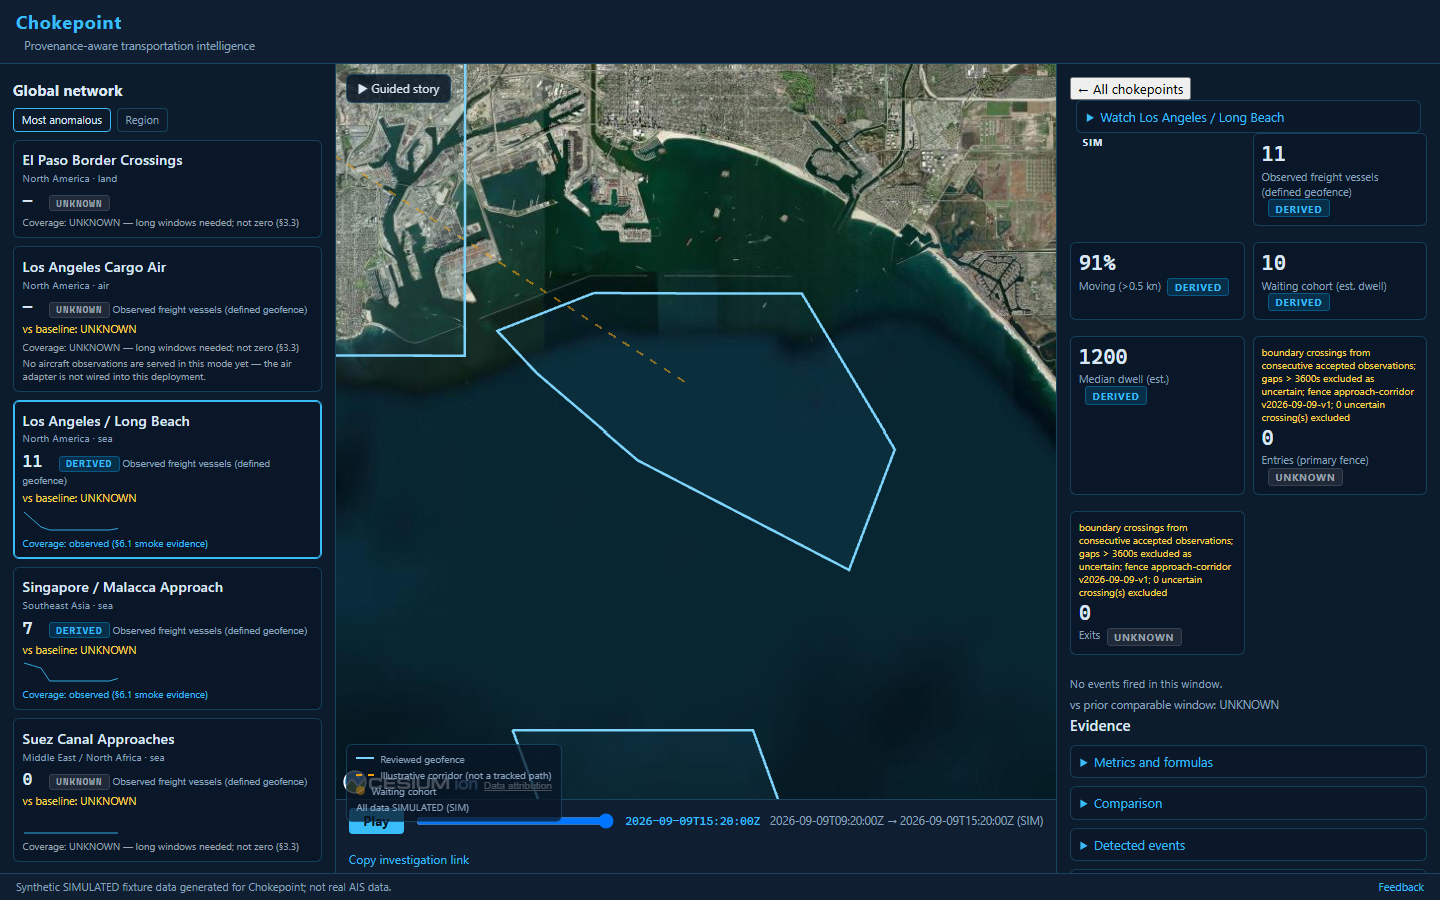
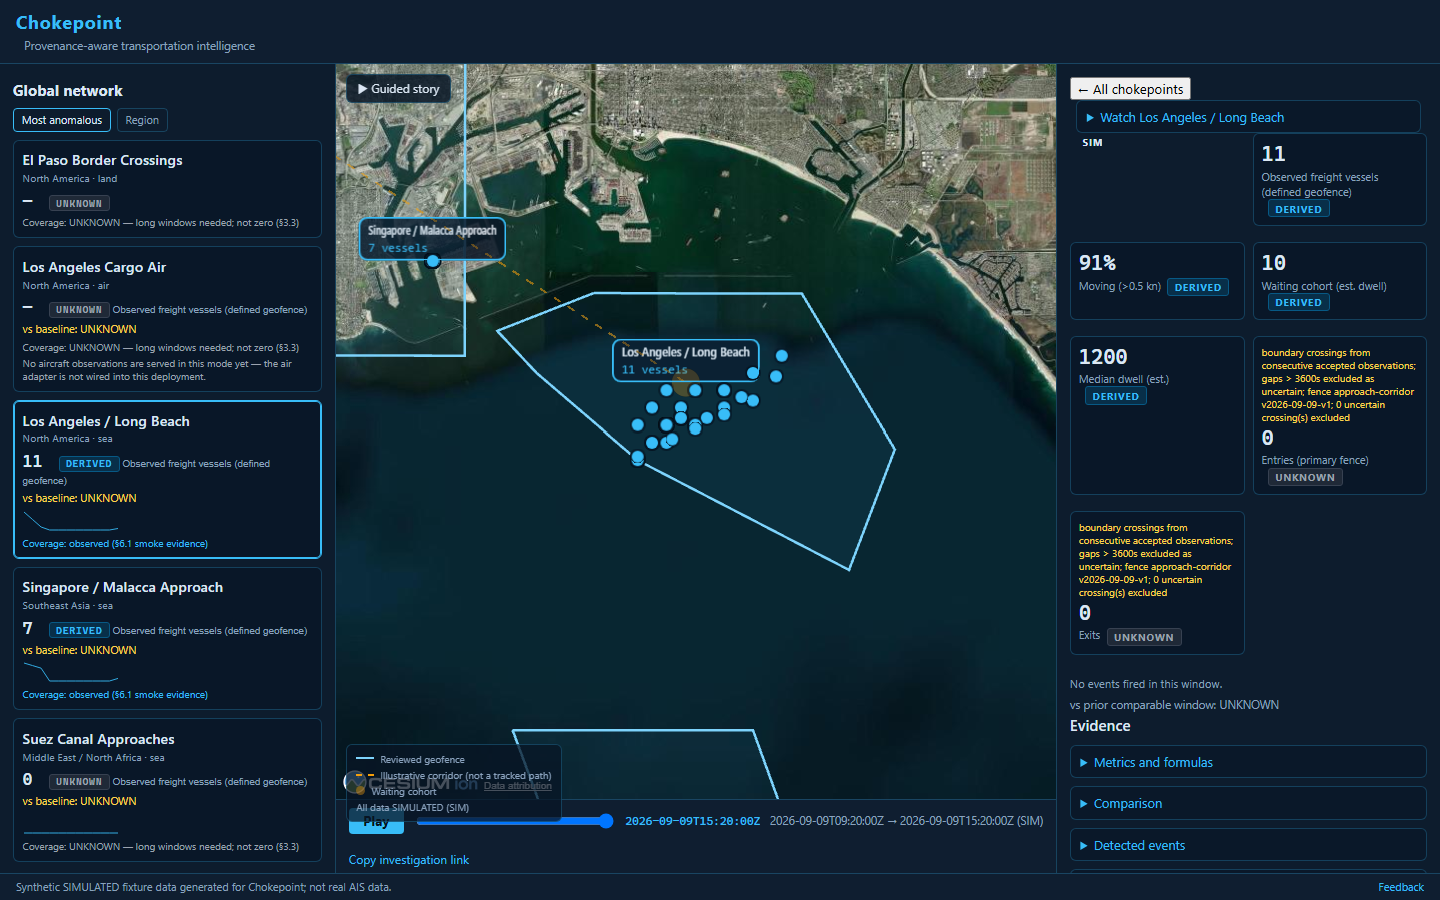
Phase 1.5 presence layer ON: nodes+pulses crash root-caused and fixed (Cesium JulianDate exposes dayNumber, not julianDateNumber - pulsePixelSize produced NaN pixelSize -> NaN collection bounding radius -> NaN near/far -> updateFrustums RangeError killed the render loop on the first animated frame);

Changed region(s): [[0.4062, 0.3733, 0.5625, 0.5289], [0.25, 0.2178, 0.375, 0.3111]]

diff --git a/src/scene/globe.ts b/src/scene/globe.ts
@@ -303,6 +303,29 @@ export function createFreightGlobe(
           (e.id.startsWith("node-") || e.id.startsWith("pulse-")),
       );
       for (const entity of toRemove) viewer.entities.remove(entity);
+      // P4 pulse for one marker (local helper so the pulses-only bisect mode
+      // can draw pulses WITHOUT node billboards).
+      const addPulse = (m: NodeMarker): void => {
+        if (m.cohort === 0) return;
+        const animated = m.cohort > 0;
+        const cohort = Math.abs(m.cohort);
+        const pixelSize = animated
+          ? new Cesium.CallbackProperty(
+              (time) => pulsePixelSize(cohort, time ?? viewer.clock.currentTime),
+              false,
+            )
+          : 22;
+        viewer.entities.add({
+          id: `pulse-${m.id}`,
+          position: Cesium.Cartesian3.fromDegrees(m.anchor[1], m.anchor[0], 0),
+          point: {
+            pixelSize,
+            color: Cesium.Color.fromCssColorString("#f59e0b").withAlpha(0.28),
+            outlineWidth: 0,
+            heightReference: Cesium.HeightReference.NONE,
+          },
+        });
+      };
       for (const m of markers) {
         viewer.entities.add({
           id: `node-${m.id}`,
@@ -317,37 +340,7 @@ export function createFreightGlobe(
             sizeInMeters: false,
           },
         });
-        // P4: waiting-cohort pulse — size oscillates with the viewer clock
-        // (render-driven under requestRenderMode; frozen when idle). The
-        // ring marks WHERE vessels wait; it claims nothing about motion.
-        // Render-property constraints (bisected via QA probes):
-        //  - outlineWidth MUST be 0: with an outline, PointVisualizer renders
-        //    the point as a billboard whose texture id embeds the pixel size —
-        //    an animated pixelSize then queues a NEW atlas texture every frame
-        //    (width-0 churn -> repeated render-loop errors).
-        //  - disableDepthTestDistance MUST NOT be Infinity on the pulse: it
-        //    collapses the near plane to 0, far/near -> Infinity, and the
-        //    multi-frustum split overflows (RangeError, rendering stops).
-        // The pulse is a large translucent surface ring; depth testing is fine.
-        if (m.cohort !== 0) {
-          const animated = m.cohort > 0;
-          const cohort = Math.abs(m.cohort);
-          viewer.entities.add({
-            id: `pulse-${m.id}`,
-            position: Cesium.Cartesian3.fromDegrees(m.anchor[1], m.anchor[0], 0),
-            point: {
-              pixelSize: animated
-                ? new Cesium.CallbackProperty(
-                    (time) => pulsePixelSize(cohort, time ?? viewer.clock.currentTime),
-                    false,
-                  )
-                : 22,
-              color: Cesium.Color.fromCssColorString("#f59e0b").withAlpha(0.28),
-              outlineWidth: 0,
-              heightReference: Cesium.HeightReference.NONE,
-            },
-          });
-        }
+        addPulse(m);
       }
       viewer.scene.requestRender();
     },
@@ -377,11 +370,15 @@ export function createFreightGlobe(
           // corridor "flows" during replay/scrub renders and freezes when
           // idle (§12.5: no wall clock in the render path).
           dashPattern: new Cesium.CallbackProperty((time) => {
+            // Cesium JulianDate exposes dayNumber + secondsOfDay. The
+            // previously-assumed `julianDateNumber` is undefined on real
+            // JulianDates -> NaN seconds -> zeroed dash pattern; same latent
+            // bug as the P4 pulse crash (see STATUS.md).
             const t = (time ?? viewer.clock.currentTime) as unknown as {
-              julianDateNumber: number;
+              dayNumber: number;
               secondsOfDay: number;
             };
-            const seconds = t.julianDateNumber * 86400 + t.secondsOfDay;
+            const seconds = t.dayNumber * 86400 + t.secondsOfDay;
             if (routeFlowActive) {
               if (lastFlowSeconds !== null) {
                 flowOffset = (flowOffset + Math.max(0, seconds - lastFlowSeconds)) % 16;

diff --git a/src/main.ts b/src/main.ts
@@ -94,6 +94,18 @@ function samplePixel(gl: WebGLRenderingContext | null, canvas: HTMLCanvasElement
 // Test/diagnostic hook (QA reads entity counts; contains no secrets).
 (window as unknown as { __chokepointDebug?: unknown }).__chokepointDebug = {
   getEntityCount: () => (globe ? globe.viewer.entities.values.length : -1),
+  /** QA diagnostic: camera pose + frustum near/far at read time. */
+  getCameraState: () => {
+    if (!globe) return null;
+    const cam = globe.viewer.camera;
+    const f = cam.frustum as unknown as { near?: number; far?: number };
+    return {
+      position: { x: cam.position.x, y: cam.position.y, z: cam.position.z },
+      direction: { x: cam.direction.x, y: cam.direction.y, z: cam.direction.z },
+      near: f.near ?? null,
+      far: f.far ?? null,
+    };
+  },
   getEntityKinds: () =>
     globe
       ? globe.viewer.entities.values.map((e) => ({
@@ -635,10 +647,10 @@ function refreshView(snapshot: AppStateSnapshot): void {
   const windowToUse = snapshot.replay.cursor ? replayWindow(snapshot.replay.cursor) : snapshot.timeWindow;
   const snaps = manager.getAllSnapshots(windowToUse);
   globe.showObservations(networkObservations(snaps).observations, snapshot.selectedEntityId);
-  // Phase 1.5 P2/P4 node markers are OPT-IN (?nodes) pending a Cesium render
-  // crash triggered by nodes+pulses together (STATUS.md, open blocker). The
-  // network view boots clean without them.
-  if (new URLSearchParams(window.location.search).has("nodes")) updateNodeMarkers(snaps);
+  // Phase 1.5 P2/P4 node markers and cohort pulses ship ON (the earlier Cesium render crash was traced to
+  // `julianDateNumber` vs `dayNumber` in pulsePixelSize — see STATUS.md);
+  // ?nonodes / ?nopulse still hide them for QA and escape hatches.
+  updateNodeMarkers(snaps);
 
   renderCompareTable(required("#compare"), compareRows(snaps, (f) => manager.coverageHint(f)), (chokepointId) => {
     state.update({ focusChokepointId: chokepointId });

diff --git a/scripts/perf-replay.ts b/scripts/perf-replay.ts
@@ -96,8 +96,10 @@ try {
   page.on("pageerror", (err) => pageErrors.push(String(err)));
 
   await page.goto(`${BASE}/`, { waitUntil: "domcontentloaded" });
-  await page.waitForSelector("[data-testid^=launcher-]", { timeout: 30_000 });
-  await page.click("[data-testid=launcher-long-beach-approach]");
+  // Phase 1 network boot: the launcher was absorbed into the compare table;
+  // focus long-beach-approach via its compare row (same as qa-browser).
+  await page.waitForSelector("[data-testid^=compare-]", { timeout: 30_000 });
+  await page.click("[data-testid=compare-long-beach-approach]");
   await page.waitForSelector("[data-testid=card-vessel-count]", { timeout: 30_000 });
   await sleep(4000); // globe init + first renders settle
 
@@ -187,9 +189,9 @@ try {
   // --- 4) Memory growth over enable/disable cycles ---
   const heap0 = await page.evaluate(() => (window as unknown as { __chokepointDebug?: Debug }).__chokepointDebug!.getHeap());
   for (let i = 0; i < BUDGETS.replayCycles; i++) {
-    await page.click("[data-testid=back-to-launcher]");
-    await page.waitForSelector("[data-testid^=launcher-]");
-    await page.click("[data-testid=launcher-long-beach-approach]");
+    await page.click("[data-testid=clear-focus]");
+    await page.waitForSelector("[data-testid=focus-hint]", { timeout: 30_000 });
+    await page.click("[data-testid=compare-long-beach-approach]");
     await page.waitForSelector("[data-testid=card-vessel-count]");
     await sleep(1200);
     results.memory.samples.push(await page.evaluate(() => (window as unknown as { __chokepointDebug?: Debug }).__chokepointDebug!.getHeap()));

diff --git a/src/scene/nodeEffects.ts b/src/scene/nodeEffects.ts
@@ -85,10 +85,14 @@ export function drawNodeSprite(m: NodeMarker): HTMLCanvasElement {
  * claim about cohort magnitude).
  */
 export function pulsePixelSize(cohort: number, time: unknown): number {
+  // Cesium JulianDate exposes dayNumber + secondsOfDay (never wall-clock).
+  // Reading the previously-assumed `julianDateNumber` yielded undefined ->
+  // NaN pixelSize -> NaN collection bounding radius -> updateFrustums
+  // RangeError (scene-wide render stop). This was the Phase 1.5 P4 crash.
   const seconds =
-    typeof time === "object" && time !== null && "secondsOfDay" in (time as Record<string, unknown>)
-      ? ((time as { julianDateNumber: number }).julianDateNumber * 86400 +
-          (time as { secondsOfDay: number }).secondsOfDay)
+    typeof time === "object" && time !== null && "dayNumber" in (time as Record<string, unknown>)
+      ? (time as { dayNumber: number; secondsOfDay: number }).dayNumber * 86400 +
+        (time as { dayNumber: number; secondsOfDay: number }).secondsOfDay
       : 0;
   const phase = (seconds % 2) / 2; // 0..1 over ~2s
   const wave = 0.5 - 0.5 * Math.cos(phase * 2 * Math.PI); // smooth 0->1->0

diff --git a/src/styles.css b/src/styles.css
@@ -2573,6 +2573,9 @@ details.voice-panel { border: 1px solid var(--border); border-radius: 6px; paddi
 
 /* P8 polish: legend + focus transitions (same visual language, no new system). */
 .legend {
+  /* Display-only affordance: never intercept pointer events (it overlays the
+     replay timeline; blocking clicks there broke perf-replay's Play control). */
+  pointer-events: none;
   position: absolute; left: 0.6rem; bottom: 3.2rem; z-index: 3;
   display: flex; flex-direction: column; gap: 0.2rem;
   background: rgba(8, 22, 38, 0.75); border: 1px solid var(--border);

diff --git a/scripts/qa-browser.ts b/scripts/qa-browser.ts
@@ -81,6 +81,8 @@ try {
     failures += 1;
     console.error(`FAIL: expected >= 2 route arcs, got ${routeIds}`);
   }
+  // Node markers + cohort pulses ship ON (the Cesium render crash was traced
+  // and fixed: JulianDate uses dayNumber, not julianDateNumber — STATUS.md).
   if (nodeIds !== 5) {
     failures += 1;
     console.error(`FAIL: expected 5 node markers, got ${nodeIds}`);

diff --git a/STATUS.md b/STATUS.md
@@ -623,7 +623,7 @@ land profile, each with placeholder geometry awaiting human review.**
 
 No live provider integration and no LLM work exists in this repository.
 
-## Unified network view: Phase 1 complete, Phase 1.5 gated off (2026-09-15)
+## Unified network view: Phase 1 complete, Phase 1.5 presence layer ON (2026-09-16)
 
 - **Phase 1 (substrate) — BUILT**: all five profiles render on ONE globe
   (per-profile prefixed fence/observation entity ids, ONE merged
@@ -637,21 +637,31 @@ No live provider integration and no LLM work exists in this repository.
   idempotent `clearOverlays()` (also fixes the latent agent
   `focus_chokepoint` fence-accumulation bug), watchlist relocated to the
   compare rail, launcher absorbed into `compareRows`. 341 tests green.
-- **Phase 1.5 (presence) — partially built**: P1 boot fly-in, P3 arc dash
-  rotation, and P6 story mode are in. P2 node sprite markers and P4
-  dwell-cohort pulse are IMPLEMENTED but OPT-IN (`?nodes`): they trigger a
-  Cesium render crash.
-- **OPEN BLOCKER — Cesium render crash with nodes+pulses**:
-  `RangeError: Failed to set the 'length' property on 'Array': Invalid array
-  length` at `View.createPotentiallyVisibleSet`/`updateFrustums` stops
-  rendering when node billboards and pulse ellipsoids are on screen
-  together. Probe evidence (pre-cleanup): nodes-only (`nopulse`) is
-  crash-free; nodes+pulses crashes in every mode tried (static pulse,
-  depth-test variants). Pulses-ONLY (plain billboards + pulses) was never
-  tested — that is the next bisect step, followed by NaN/Infinity guards on
-  marker anchors and pulse dimensions (classic non-finite bounding-volume
-  symptom). Static PNGs of the gated view: `research/qa/network-view.png`,
-  `research/qa/network-focused.png` (pre-crash captures).
+- **Phase 1.5 (presence) — ON**: P1 boot fly-in, P2 node sprite markers, P3
+  arc dash rotation, P4 dwell-cohort pulse, and P6 story mode all ship in the
+  default network boot (`?nonodes` / `?nopulse` remain as QA escape hatches).
+- **CLOSED BLOCKER — Cesium render crash (root-caused 2026-09-16)**:
+  `RangeError: Invalid array length` at `updateFrustums` stopped the whole
+  render loop on the first frame with animated pulses. Chain: Cesium
+  `JulianDate` exposes `dayNumber` + `secondsOfDay`; `pulsePixelSize` read a
+  nonexistent `julianDateNumber` -> `undefined * 86400` -> NaN pixelSize ->
+  NaN `_maxPixelSize` (sticky via `Math.max` in the point VAF writer) -> NaN
+  point-collection bounding radius -> NaN command near/far in
+  `createPotentiallyVisibleSet` -> `frustumCommandsList.length = NaN` ->
+  RangeError. Bisect showed the pulse POINT with an animated
+  (`CallbackProperty`) pixelSize was the sole trigger; node billboards and
+  height-reference variants were innocent. Fixed `pulsePixelSize` to use
+  `dayNumber` and the same latent bug in the P3 route-dash seconds math
+  (`rotatePattern(NaN)` silently zeroed the dash pattern). QA: default boot
+  renders nodes=5 + pulses, 0 page/console errors
+  (`research/qa/qa-nodes-on.out`); 341 tests; perf budgets re-measured
+  (`research/perf/perf-after-nodes-on.out`).
+- **Fixed while un-gating**: `scripts/perf-replay.ts` still drove the removed
+  launcher UI (Phase 1 absorbed it) — now focuses via the compare row and
+  clears focus between heap cycles, matching `qa-browser.ts`. The P8 legend
+  overlay intercepted pointer events over the replay timeline's Play button
+  (caught by the perf harness click timeout); the display-only legend is now
+  `pointer-events: none`.
 - **Deferred (per plan)**: multi-profile agent compare intents in
   `agent/tools.ts` (single-scope `runTool` stays); broader intermodal
   facility coverage.

diff --git a/research/perf/replay-perf-2026-09-16.md b/research/perf/replay-perf-2026-09-16.md
@@ -1,0 +1,9 @@
+# Replay performance profile (§12.5 budgets v1)
+
+- Generated: 2026-09-16T00:42:09.614Z
+- Replay render: count=37, mean=4.4ms, p95=6.8ms, max=59.2ms (budget mean 33ms / max 250ms)
+- Scrub latency (n=20): mean=118.3ms, max=150.9ms (budget 250ms)
+- Idle renders over 5s paused: 0 (budget 1)
+- Heap growth over 5 enable/disable cycles: 0.0% (budget 50%)
+
+**Result: PASS**
